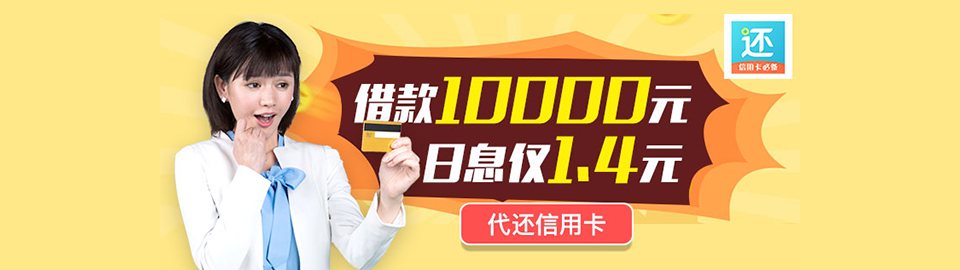
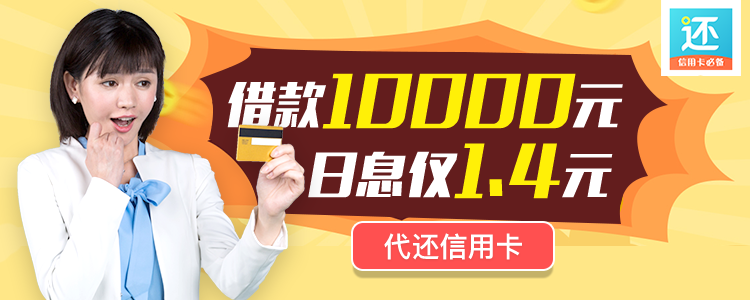
图片更新

diff --git a/web/src/main/webapp/dist/css/meiyue.css b/web/src/main/webapp/dist/css/meiyue.css
@@ -1156,7 +1156,7 @@ ul#navlist .list1{border-bottom: 1px solid #dfdfdf;width: 100%;margin-bottom: -1
 	.financial .smt{ color:#fbb9bb; font-size:13px;}
 	.financial p{ margin:0}
 	.financial .money{ font-size:32px; color:#fff; font-weight:300}
-	.financial a{ text-decoration:none; display:block; text-align:center; color:#fff; border:1px solid #fab8ba; border-radius:4px; background:#f4595e; width:60px; line-height:28px; margin-top:13px}
+	.financial a{ text-decoration:none; display:block; text-align:center; color:#fff; border:1px solid #fff; border-radius:4px; background:#f4595e; opacity:0.7; width:60px; line-height:28px; margin-top:13px}
 .month{ padding:15px 15px 8px 15px; color:#888; font-size:14px;}
 .finlist{ background:#fff;border-top:1px solid #dfdfdf}
 	.finlist ul{}
